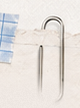
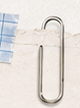
Fix clipped diamond tops and washed evil-eye rim
The diamond crop was too tight (clipping the top point) and the evil
eye, paperclip, floral, and intro tape had been cropped from the
text-erased working image, so the erase fill bled onto them — the eye's
upper rim most visibly. All five re-cropped from the pristine
reference; diamond re-alpha'd at its full 42x48 bounds.

Claude-Session: https://claude.ai/code/session_01HwHnB6ZvdvjAvLg4jAqUHh

Changed region(s): [[0.45, 0.7222, 0.8, 1.0]]

diff --git a/index.html b/index.html
@@ -132,7 +132,7 @@ nav,nav a,nav .mono img{transition:color .35s ease,filter .35s ease}
 #ab-exp .row+.row{border-top:1.5px dashed #bbb6b2}
 #ab-exp .row img{flex:0 0 auto;margin-top:-3px}
 #ab-int{font-size:15.5px;line-height:1.4}
-#ab-int .row{display:flex;gap:6px;align-items:center;margin-bottom:16px}
+#ab-int .row{display:flex;gap:4px;align-items:center;margin-bottom:11px}
 #ab-int .row img{flex:0 0 auto}
 /* notebook is now a doorway to #about */
 #notebook a{cursor:pointer}
@@ -446,7 +446,7 @@ if (expBox) expBox.innerHTML = EXPERIENCE.map(([a,b]) =>
 
 /* interests — same tiny diamond beside every item */
 const INTERESTS = ["designing","exploring","driving creativity","building community","giving back"];
-const AB_DIAMOND = '<img src="assets/about/diamond.png" width="34" height="34" alt="" aria-hidden="true">';
+const AB_DIAMOND = '<img src="assets/about/diamond.png" width="42" height="48" alt="" aria-hidden="true">';
 const intBox = document.getElementById("ab-int");
 if (intBox) intBox.innerHTML = INTERESTS.map(t =>
   '<div class="row">' + AB_DIAMOND + '<div>' + t + '</div></div>').join("");
